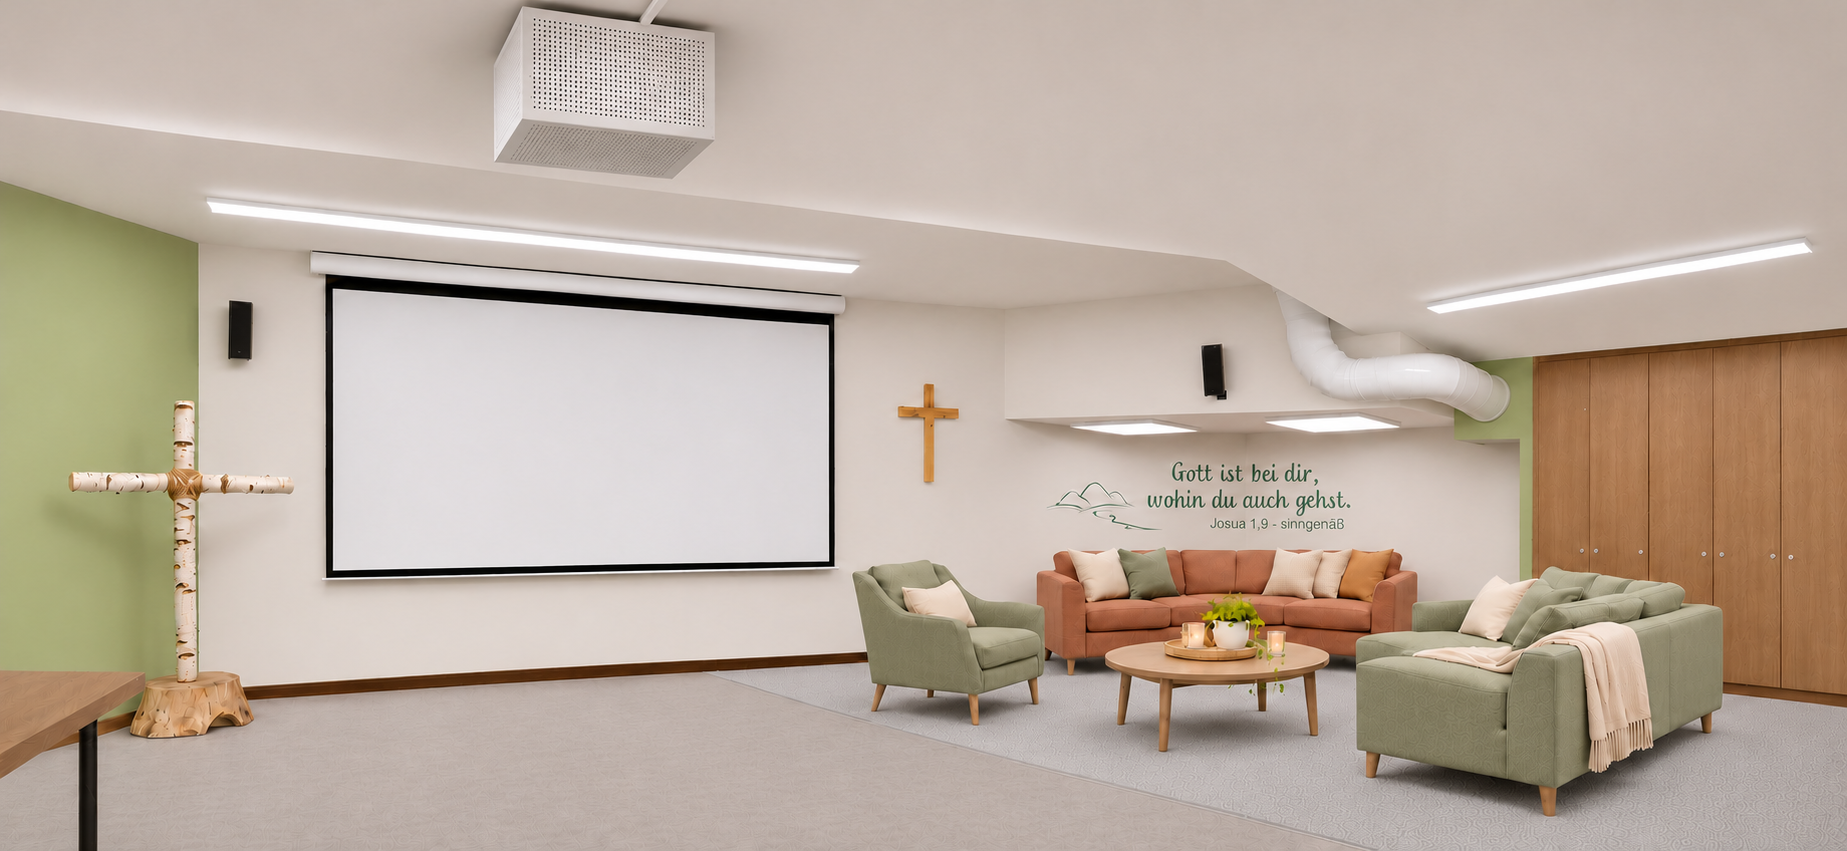
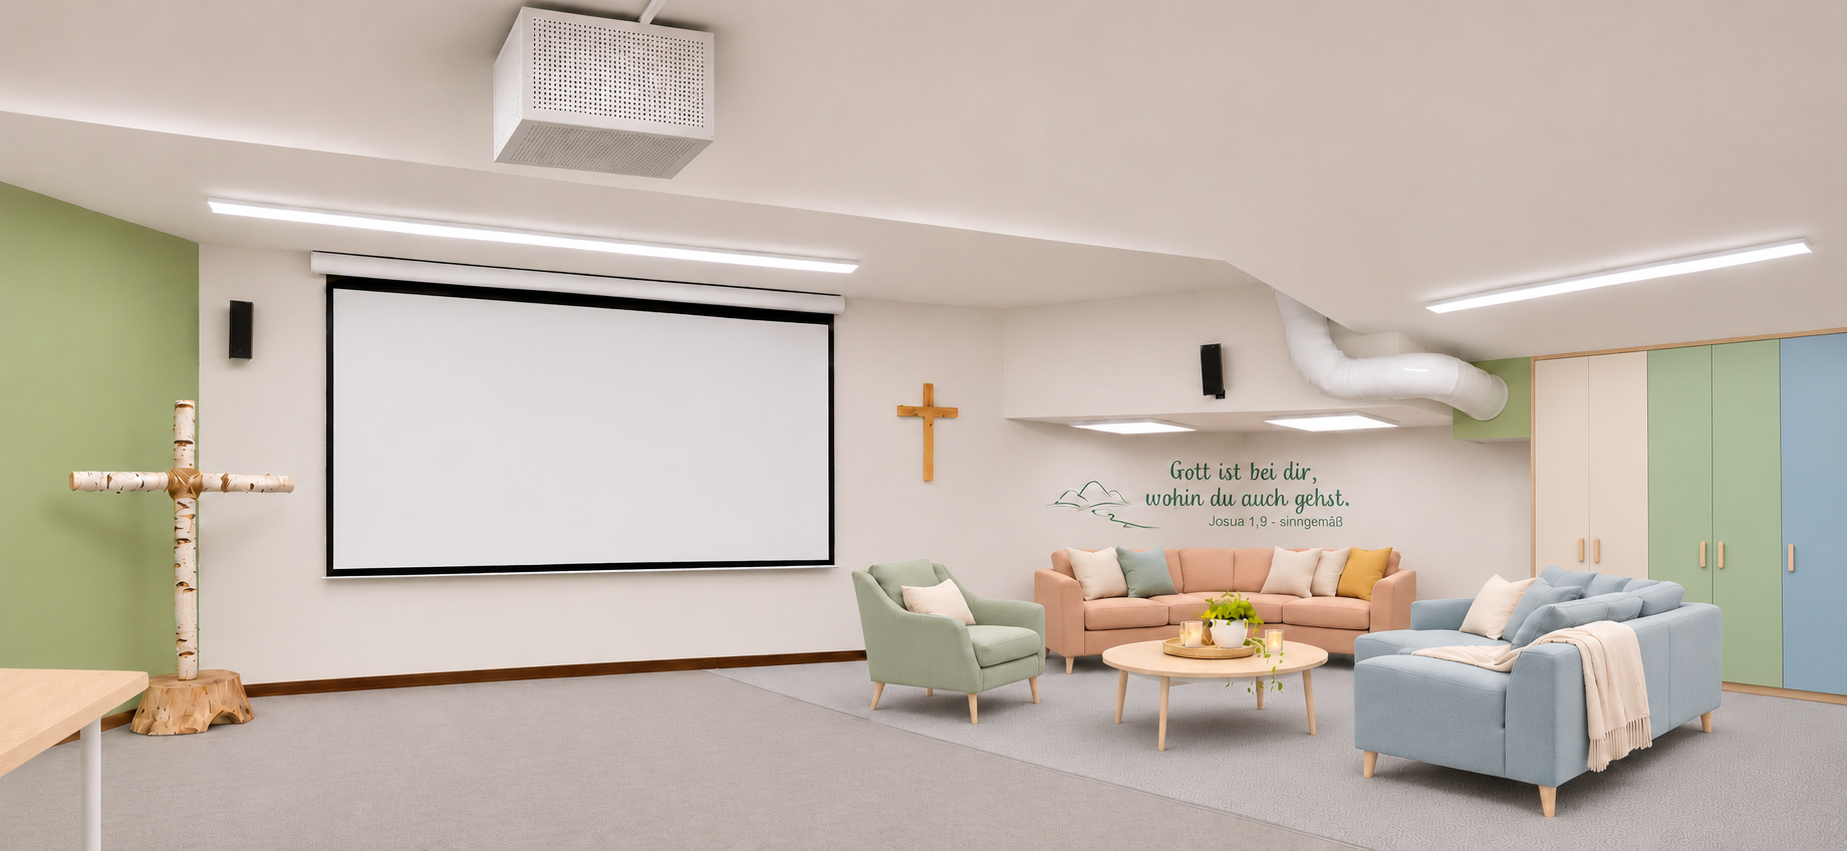
Apply selected V3 furniture palette consistently to Schwalben gallery

diff --git a/app.js b/app.js
@@ -1,6 +1,6 @@
 'use strict';
-const IMAGES=[{"id":"ZW-01","room":"zwischenraum","title":"Ankommen und Durchgang","description":"Ankunftsbereich mit vorhandener Treppe und Schiebetür. Die Wegweisung liegt an der gegenüberliegenden Wand.","src":"assets/ZW-01.png","before":"assets/before/ZW-01.jpg"},{"id":"ZW-02","room":"zwischenraum","title":"Willkommen und Garderobe","description":"Ein ruhiger Willkommensbereich mit geschlossenem Stauraum und Garderobe. Neue Holzflächen greifen den Braunton des Bestands auf.","src":"assets/ZW-02.png","before":"assets/before/ZW-02.jpg"},{"id":"FL-01","room":"flur","title":"Die offene Küche","description":"Die offene Küche bleibt an ihrem bisherigen Platz. Salbeifarbene Fronten, eine helle Arbeitsplatte und Holz im Ton der Türen verbinden sie mit den Gruppenräumen.","src":"assets/FL-01.png","before":"assets/before/FL-01.jpg"},{"id":"FL-02","room":"flur","title":"Gruppenzugänge und Orientierung","description":"Eigene Gruppenschilder mit Vogelsymbolen erleichtern die Zuordnung. Die Leuchten folgen längs dem Flur.","src":"assets/FL-02.png","before":"assets/before/FL-02.jpg"},{"id":"FL-03","room":"flur","title":"Adler neben Spatzen","description":"Diese zusätzliche Ansicht hält den Adler-Zugang neben dem weiteren Spatzen-Zugang fest. Gegenüber liegt der Zugang zu Schwalben.","src":"assets/FL-03.png","before":"assets/before/FL-03.jpg"},{"id":"FL-04","room":"flur","title":"Zwischentreppe zum Zwischenraum","description":"Die vorhandene Zwischentreppe und der seitliche Abzweig bleiben sichtbar. Dieser Blick ergänzt die übrigen Fluransichten.","src":"assets/FL-04.png","before":"assets/before/FL-04.jpg"},{"id":"AD-01","room":"adler","title":"Gesprächsraum","description":"Petrol, eine große Pinnfläche und zusammenstellbare Tische. Der Vers steht direkt auf der weißen Wand; die Leuchten verteilen sich über den Raum.","src":"assets/AD-01.png","before":"assets/before/AD-01.jpg"},{"id":"AD-02","room":"adler","title":"Pinnwand und Eingang","description":"Die Pinnwand ersetzt die mobile Tafel. Holz und Petrol schaffen einen jugendlichen Rahmen; der Zugang bleibt am bisherigen Ort.","src":"assets/AD-02.png","before":"assets/before/AD-02.jpg"},{"id":"SP-01","room":"spatzen","title":"Basteln und Entdecken","description":"Vogelmotive und farbige Landschaften, einmalig der Vers an der Rückwand und größere Stühle für begleitende Eltern. Das Whiteboard bleibt.","src":"assets/SP-01.png","before":"assets/before/SP-01.jpg"},{"id":"SP-02","room":"spatzen","title":"Abschließbarer Stauraum","description":"Abschließbarer Stauraum und eine Pinnwand beim Eingang für die Werke der Kinder. Der Vers bleibt an der gegenüberliegenden Rückwand.","src":"assets/SP-02.png","before":"assets/before/SP-02.jpg"},{"id":"SW-01","room":"schwalben","title":"Neue Sitzecke und Medien","description":"Neue Sitzmöbel auf der rechten Teppichzone, abwischbarer Boden vor der Leinwand und eigene Leuchten direkt unter der niedrigeren Decke.","src":"assets/SW-01.png","before":"assets/before/SW-01.jpg"},{"id":"SW-02","room":"schwalben","title":"Basteltische und Materialschränke","description":"Große geschlossene Materialschränke für alle Gruppen und flexible Basteltische. Die großzügige Raumwirkung bleibt die Grundlage.","src":"assets/SW-02.png","before":"assets/before/SW-02.jpg"}];
-const ROOMS=[{"id":"zwischenraum","name":"Zwischenraum","number":"00","color":"#90856b","summary":"Ankommen, weitergehen und sich willkommen fühlen. Die vorhandenen Wege und Höhenunterschiede bleiben erhalten."},{"id":"flur","name":"Flur und Küche","filter":"Flur + Küche","number":"01","color":"#9a785b","summary":"Küche, Gruppenräume und Zwischentreppe im Zusammenhang. Vier Blickrichtungen halten die verschiedenen Zugänge sichtbar."},{"id":"adler","name":"Adler","number":"02","color":"#446f70","summary":"Ein ruhiger Raum für die Gruppe ab 15 Jahren, mit Petrol, warmem Holz und Platz für Gedanken."},{"id":"spatzen","name":"Spatzen","number":"03","color":"#8d9f6e","summary":"Lebhafter und kindgerecht für Drei- bis Sechsjährige: Vogelmotive, Farbe und Platz für die Werke der Kinder."},{"id":"schwalben","name":"Schwalben","number":"04","color":"#b56e50","summary":"Großzügig und flexibel: Basteln, Spielen und Gemeinschaft. Neue Sitzecke, eigene Leuchten und Stauraum für alle Gruppen."}];
+const IMAGES=[{"id":"ZW-01","room":"zwischenraum","title":"Ankommen und Durchgang","description":"Ankunftsbereich mit vorhandener Treppe und Schiebetür. Die Wegweisung liegt an der gegenüberliegenden Wand.","src":"assets/ZW-01.png","before":"assets/before/ZW-01.jpg"},{"id":"ZW-02","room":"zwischenraum","title":"Willkommen und Garderobe","description":"Ein ruhiger Willkommensbereich mit geschlossenem Stauraum und Garderobe. Neue Holzflächen greifen den Braunton des Bestands auf.","src":"assets/ZW-02.png","before":"assets/before/ZW-02.jpg"},{"id":"FL-01","room":"flur","title":"Die offene Küche","description":"Die offene Küche bleibt an ihrem bisherigen Platz. Salbeifarbene Fronten, eine helle Arbeitsplatte und Holz im Ton der Türen verbinden sie mit den Gruppenräumen.","src":"assets/FL-01.png","before":"assets/before/FL-01.jpg"},{"id":"FL-02","room":"flur","title":"Gruppenzugänge und Orientierung","description":"Eigene Gruppenschilder mit Vogelsymbolen erleichtern die Zuordnung. Die Leuchten folgen längs dem Flur.","src":"assets/FL-02.png","before":"assets/before/FL-02.jpg"},{"id":"FL-03","room":"flur","title":"Adler neben Spatzen","description":"Diese zusätzliche Ansicht hält den Adler-Zugang neben dem weiteren Spatzen-Zugang fest. Gegenüber liegt der Zugang zu Schwalben.","src":"assets/FL-03.png","before":"assets/before/FL-03.jpg"},{"id":"FL-04","room":"flur","title":"Zwischentreppe zum Zwischenraum","description":"Die vorhandene Zwischentreppe und der seitliche Abzweig bleiben sichtbar. Dieser Blick ergänzt die übrigen Fluransichten.","src":"assets/FL-04.png","before":"assets/before/FL-04.jpg"},{"id":"AD-01","room":"adler","title":"Gesprächsraum","description":"Petrol, eine große Pinnfläche und zusammenstellbare Tische. Der Vers steht direkt auf der weißen Wand; die Leuchten verteilen sich über den Raum.","src":"assets/AD-01.png","before":"assets/before/AD-01.jpg"},{"id":"AD-02","room":"adler","title":"Pinnwand und Eingang","description":"Die Pinnwand ersetzt die mobile Tafel. Holz und Petrol schaffen einen jugendlichen Rahmen; der Zugang bleibt am bisherigen Ort.","src":"assets/AD-02.png","before":"assets/before/AD-02.jpg"},{"id":"SP-01","room":"spatzen","title":"Basteln und Entdecken","description":"Vogelmotive und farbige Landschaften, einmalig der Vers an der Rückwand und größere Stühle für begleitende Eltern. Das Whiteboard bleibt.","src":"assets/SP-01.png","before":"assets/before/SP-01.jpg"},{"id":"SP-02","room":"spatzen","title":"Abschließbarer Stauraum","description":"Abschließbarer Stauraum und eine Pinnwand beim Eingang für die Werke der Kinder. Der Vers bleibt an der gegenüberliegenden Rückwand.","src":"assets/SP-02.png","before":"assets/before/SP-02.jpg"},{"id":"SW-01","room":"schwalben","title":"Neue Sitzecke und Medien","description":"Leichte Möbel und helle Holzflächen mit Mint, Hellblau und Pfirsich. Die Sitzecke bleibt auf der rechten Teppichzone; vor der Leinwand liegt abwischbarer Boden.","src":"assets/SW-01.png","before":"assets/before/SW-01.jpg"},{"id":"SW-02","room":"schwalben","title":"Basteltische und Materialschränke","description":"Helle Basteltische, leichte Stühle in sanften Farben und geschlossene Materialschränke in Weiß, Mint und Hellblau. Gewählte Gestaltungsrichtung: Variante 3.","src":"assets/SW-02.png","before":"assets/before/SW-02.jpg"}];
+const ROOMS=[{"id":"zwischenraum","name":"Zwischenraum","number":"00","color":"#90856b","summary":"Ankommen, weitergehen und sich willkommen fühlen. Die vorhandenen Wege und Höhenunterschiede bleiben erhalten."},{"id":"flur","name":"Flur und Küche","filter":"Flur + Küche","number":"01","color":"#9a785b","summary":"Küche, Gruppenräume und Zwischentreppe im Zusammenhang. Vier Blickrichtungen halten die verschiedenen Zugänge sichtbar."},{"id":"adler","name":"Adler","number":"02","color":"#446f70","summary":"Ein ruhiger Raum für die Gruppe ab 15 Jahren, mit Petrol, warmem Holz und Platz für Gedanken."},{"id":"spatzen","name":"Spatzen","number":"03","color":"#8d9f6e","summary":"Lebhafter und kindgerecht für Drei- bis Sechsjährige: Vogelmotive, Farbe und Platz für die Werke der Kinder."},{"id":"schwalben","name":"Schwalben","number":"04","color":"#b56e50","summary":"Basteln, Spielen und Gemeinschaft mit leichtem Mobiliar, hellem Holz und sanften Farben. Beide Ansichten zeigen die gewählte Variante 3."}];
 
 const $=id=>document.getElementById(id);
 const escapeHtml=s=>String(s).replace(/[&<>"']/g,c=>({'&':'&amp;','<':'&lt;','>':'&gt;','"':'&quot;',"'":'&#39;'}[c]));
